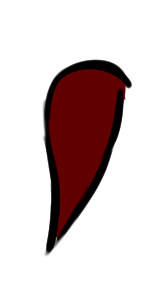
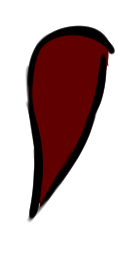
made hover heading thing in new comic homepage

Changed region(s): [[0.1846, 0.0927, 0.8923, 0.8649]]

diff --git a/ocomic/home/newhomepage.html b/ocomic/home/newhomepage.html
@@ -4,15 +4,18 @@
 	<meta charset="UTF-8">
 	<meta name="viewport" content="width=device-width, initial-scale=1.0">
 	<title>A.W.A HOMEPAGE</title>
-    <link rel="stylesheet" href="/kcomic/stylesheets/main.css">
+    <link rel="stylesheet" href="/ocomic/stylesheets/main.css">
 </head>
 <body>
 	<header>
-        <img class="headerLetters" id="leftA" src="/kcomic/IMAGES/HOME/HOVERHEADING/leftA.png" alt="The letter 'A' in the heading: 'A,W,A'">
-        <img class="headerLetters" id="leftComma" src="/kcomic/IMAGES/HOME/HOVERHEADING/leftComma.png" alt="The ',' in the heading: 'A,W,A'">
-        <img class="headerLetters" id="centerW"src="/kcomic/IMAGES/HOME/HOVERHEADING/W.png" alt="The letter 'W' in the heading: 'A,W,A'">
-        <img class="headerLetters" id="rightComma" src="/kcomic/IMAGES/HOME/HOVERHEADING/rightComma.png" alt="The second ',' in the heading: 'A,W,A'">
-        <img class="headerLetters" id="rightA" src="/kcomic/IMAGES/HOME/HOVERHEADING/REALrighta.png" alt="The second 'A' in the heading: 'A,W,A'">
+		<div id="floating-letters">
+        	<img class="headerLetters" id="leftA" src="/ocomic/IMAGES/HOME/HOVERHEADING/leftA.png" alt="The letter 'A' in the heading: 'A,W,A'">
+        	<img class="headerLetters" id="leftComma" src="/ocomic/IMAGES/HOME/HOVERHEADING/leftComma.png" alt="The ',' in the heading: 'A,W,A'">
+        	<img class="headerLetters" id="centerW" src="/ocomic/IMAGES/HOME/HOVERHEADING/W.png" alt="The letter 'W' in the heading: 'A,W,A'">
+        	<img class="headerLetters" id="rightComma" src="/ocomic/IMAGES/HOME/HOVERHEADING/rightComma.png" alt="The second ',' in the heading: 'A,W,A'">
+			<img class="headerLetters" id="rightACopied" src="/ocomic/IMAGES/HOME/HOVERHEADING/leftA.png" alt="The 2nd letter 'A' in the heading: 'A,W,A'">
+        	<!-- <img class="headerLetters" id="rightA" src="/ocomic/IMAGES/HOME/HOVERHEADING/REALrighta.png" alt="The second 'A' in the heading: 'A,W,A'"> -->
+		</div>
     </header>
 </body>
 </html>

diff --git a/ocomic/stylesheets/main.css b/ocomic/stylesheets/main.css
@@ -1,26 +1,76 @@
+@keyframes hoverA {
+    from {top: 15px;}
+    to {top: 30px;}
+}
+@keyframes hoverLeftComma {
+    from {top: 45px;}
+    to {top: 60px;}
+}
+@keyframes hoverW {
+    from {top: 0px;}
+    to {top: 15px;}
+}
+@keyframes hoverRightComma {
+    from {top: 30px;}
+    to {top: 45px;}
+}
 body {
     text-align: center;
     background-color: black;
     color: darkred;
 }
 
-h1 {
-    margin: 60px;
-    font-size: 50px;
-}
-
-main {
-    border: solid;
-}
-
 header {
-    border: solid;
+    /*border: dashed darkred;*/
 }
-
-.headerLetters {
-    width: 10%;
-}
-#leftA {
-    width: 15%;
-}
-
+#floating-letters{
+    /*border: solid darkred;*/
+    margin: auto;
+    display: flex;
+    flex-direction: row;
+    justify-content: center;
+    height: min-content;
+    img {
+        width: 100px;
+        height: 100%;
+    }
+    #leftA {
+        transform: scale(1.2);
+        position: relative;
+        left: 110px;
+        top: 15px;
+        animation: 4s ease-in-out 1s infinite alternate hoverA;
+    }
+    #leftComma {
+        transform: scale(0.3);
+        position: relative;
+        top: 45px;
+        left: 60px;
+        animation: 2.5s ease-in-out 2s infinite alternate hoverLeftComma;
+    }
+    #centerW {
+        transform: scale(0.7);
+        position: relative;
+        animation: 3s ease-in-out 2s infinite alternate hoverW;
+    }
+    #rightComma {
+        transform: scale(0.25);
+        position: relative;
+        top: 30px;
+        right: 65px;
+        animation: 2s ease-in-out infinite alternate hoverRightComma;
+    }
+    #rightA {
+        transform: scale(1.4);
+        position: relative;
+        right: 102px;
+        top: 17px;
+    }
+    #rightACopied {
+        transform: scale(-1.2, 1.2);
+        position: relative;
+        right: 110px;
+        top: 15px;
+        animation: 6s ease-in-out 2s infinite alternate hoverA;
+    }
+ }
